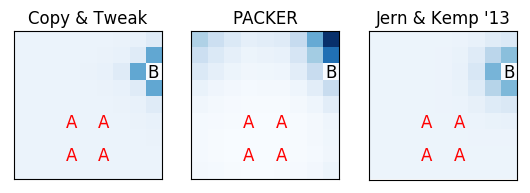
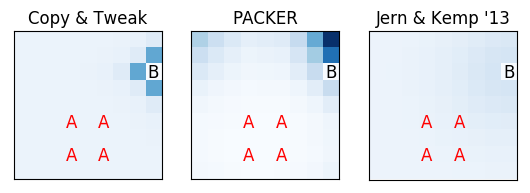
attn exploring

Changed region(s): [[0.9057, 0.2176, 0.9962, 0.4974]]

diff --git a/Experiments/middle-bottom/modeling/explore.attention.py b/Experiments/middle-bottom/modeling/explore.attention.py
@@ -26,14 +26,14 @@ stimuli = np.fliplr(np.array(list(product(vals, vals))))
 
 alphas =  [30, 32, 48, 50]
 alphas =  [12, 30, 14, 32]
-betas = [62]
+betas = []
 
 models = [
     [CopyTweak, dict(
         specificity = 9.4486327043,
         within_pref = 17.0316650379,
         tolerance = 0.403108523886,
-        determinism = 7.07038770338,
+        determinism = 10.07038770338,
         )],
     [Packer, dict(
         specificity = 0.562922970884,
@@ -45,24 +45,32 @@ models = [
         category_mean_bias = 0.0167065365661,
         category_variance_bias = 1.00003245067,
         domain_variance_bias = 0.163495499745,
-        determinism = 4.10276377982,
+        determinism = 18.10276377982,
         )],
 ]
 
+wt_list = [[0.5, 0.5], [0.15, 0.85],[0.85,0.15]]
+FUN, PARAMS = models[2]
 
 f, ax = plt.subplots(1, 3, figsize = (6.5, 2))
 pltnum = 0
-for FUN, params in models:
+for wts in wt_list:
     A = stimuli[alphas,:]
     B = stimuli[betas,:]
-    
-    M = FUN([A, B], params) 
+    PARAMS['wts'] = wts
+
+    M = FUN([A, B], PARAMS) 
+    simulated_betas = M.simulate_generation(stimuli, 1, nexemplars = 3)
+    simulated_B = stimuli[simulated_betas,:]
     ps = M.get_generation_ps(stimuli, 1)
 
     g = utils.gradientroll(ps,'roll')[:,:,0]
     h = ax[pltnum]
-    utils.plotgradient(h, g, A, B, clim = (0, 0.15))
-    h.set_title(FUN.model, fontsize = 12)
+    utils.plotgradient(h, g, A, simulated_B, clim = (0, 0.15))
+
+    h.set_title(str(wts), fontsize = 10)
+    if wts == wt_list[0]:
+        h.set_ylabel(FUN.model)
     pltnum += 1
 
-f.savefig('model-comparison.png', bbox_inches='tight', transparent=False)
+f.savefig('explore.attention.png', bbox_inches='tight', transparent=False)

diff --git a/Modules/models/Model.py b/Modules/models/Model.py
@@ -143,8 +143,9 @@ class Model(object):
 		if nexemplars is None:
 			nexemplars = sum(self.nexemplars)
 
-		# open up the new category
-		self.categories.append(np.empty((0, self.nfeatures)))
+		# open up the new category if needed
+		if category >= self.ncategories:
+			self.categories.append(np.empty((0, self.nfeatures)))
 
 		# iterate over examples
 		generated_examples = []
@@ -157,8 +158,8 @@ class Model(object):
 			generated_examples.append(num)
 
 			# add the item to the category
-			self.categories[-1] = np.concatenate(
-				[self.categories[-1], values], 
+			self.categories[category] = np.concatenate(
+				[self.categories[category], values], 
 				axis = 0)
 
 			# update knowledge
